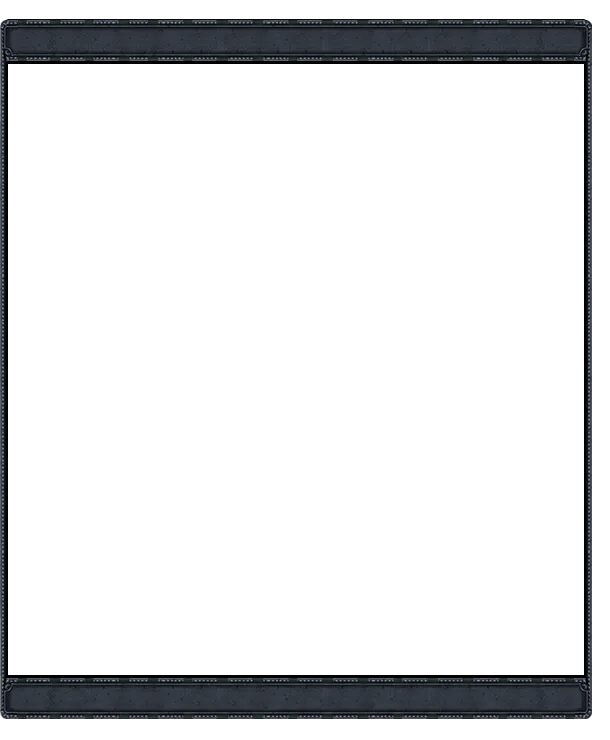
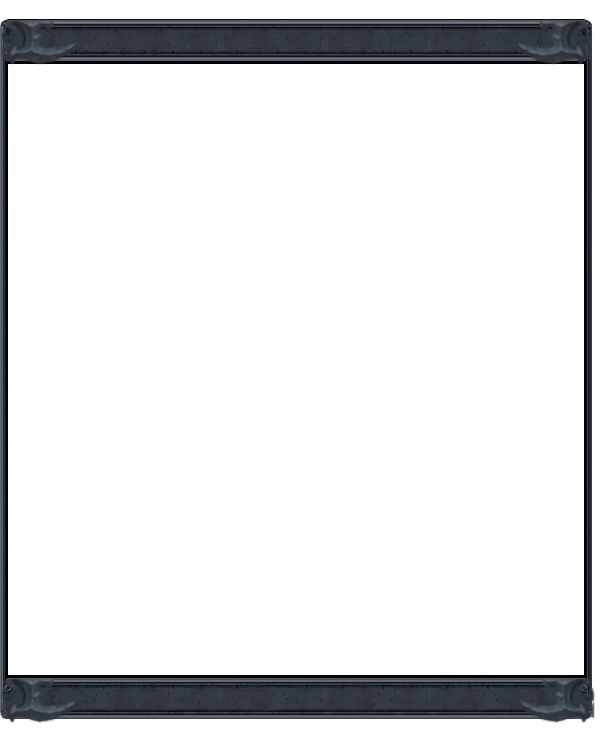
feat: add delf ui elements, fix up ui

diff --git a/module/scss/ui-naggaroth.scss b/module/scss/ui-naggaroth.scss
@@ -272,4 +272,29 @@
 		border-image-width: 19px 21px 21px 21px;
 		border-image-outset: 0px;
 	}
+	.app.window-app .window-header .import {
+		background: url(../ui/buttons/button-import.webp);
+	}
+	.app.window-app .window-header .post {
+		background: url(../ui/buttons/button-post.webp);
+	}
+	.app.window-app .window-header .share-image {
+		background: url(../ui/buttons/button-show-players.webp);
+	}
+	.journal-sheet .directory .directory-header .action-button {
+		background: url(../ui/buttons/combat-button-background.webp);
+		background-position: 0px -2px;
+		background-repeat: no-repeat;
+	}
+	#sidebar #settings button {
+		border-image: url(../ui/footer-button.webp) 10 repeat;
+		border-image-width: 4px;
+		border-image-outset: 0px;
+		background: url(../ui/sidebar_button-background_red.webp) repeat;
+		background-origin: padding-box;
+	}
+	.app.window-app .window-header .window-title {
+		border: none;
+		box-shadow: none;
+	}
 }
